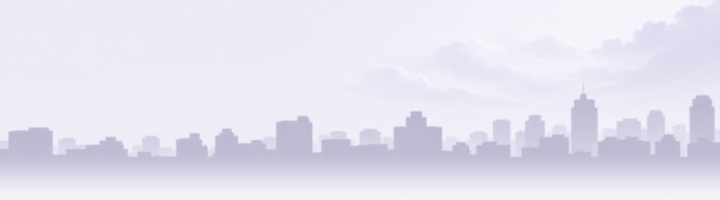
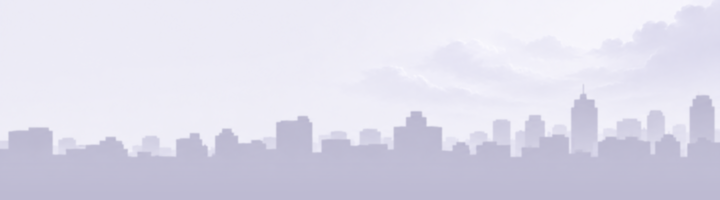
Make the light panel the colour of its buildings
The light panel and arrow are now #BDBAD2, the darkest buildings of the
light skyline, recomposited to match. Section titles, counts and the footer
on the panel turn indigo there; cards keep a white fill.

Changed region(s): [[0.0, 0.84, 1.0, 1.0]]

diff --git a/macos/Sources/LullApp/Menu/Theme.swift b/macos/Sources/LullApp/Menu/Theme.swift
@@ -19,7 +19,7 @@ struct Card<Content: View>: View {
         VStack(alignment: .leading, spacing: 0) { content }
             .background(
                 RoundedRectangle(cornerRadius: Theme.corner, style: .continuous)
-                    .fill(Color.white.opacity(scheme == .dark ? 0.075 : 0.7))
+                    .fill(Color.white.opacity(scheme == .dark ? 0.075 : 0.6))
             )
             .overlay(
                 RoundedRectangle(cornerRadius: Theme.corner, style: .continuous)
@@ -28,7 +28,16 @@ struct Card<Content: View>: View {
     }
 }
 
+/// Muted text that sits on the panel itself rather than on a card: the system secondary on
+/// dark, indigo on the light lavender panel, where neutral grey reads too faint.
+enum PanelText {
+    static func muted(_ scheme: ColorScheme) -> AnyShapeStyle {
+        scheme == .dark ? AnyShapeStyle(.secondary) : AnyShapeStyle(Brand.indigo.opacity(0.75))
+    }
+}
+
 struct SectionTitle: View {
+    @Environment(\.colorScheme) private var scheme
     var text: String
     var trailing: String?
 
@@ -40,7 +49,7 @@ struct SectionTitle: View {
         }
         .font(.system(size: 11, weight: .semibold))
         .tracking(0.6)
-        .foregroundStyle(.secondary)
+        .foregroundStyle(PanelText.muted(scheme))
         .padding(.horizontal, 4)
     }
 }

diff --git a/macos/Sources/LullApp/Brand.swift b/macos/Sources/LullApp/Brand.swift
@@ -7,12 +7,12 @@ enum Brand {
     static let lavender = Color(red: 0xEE / 255, green: 0xED / 255, blue: 0xF6 / 255)
     static let indigo = Color(red: 0x27 / 255, green: 0x27 / 255, blue: 0x44 / 255)
 
-    /// The panel's solid background: the darkest buildings of the dark skyline (`#20203A`)
-    /// and the light skyline's ground (`#F2F2F7`), so the header melts into the panel.
+    /// The panel's solid background: the darkest buildings of each skyline, `#20203A` dark
+    /// and `#BDBAD2` light, so the header melts into the panel.
     static let panel = NSColor(name: "lull.panel") { appearance in
         appearance.bestMatch(from: [.darkAqua, .aqua]) == .darkAqua
             ? NSColor(srgbRed: 0x20 / 255, green: 0x20 / 255, blue: 0x3A / 255, alpha: 1)
-            : NSColor(srgbRed: 0xF2 / 255, green: 0xF2 / 255, blue: 0xF7 / 255, alpha: 1)
+            : NSColor(srgbRed: 0xBD / 255, green: 0xBA / 255, blue: 0xD2 / 255, alpha: 1)
     }
 
     /// The cat redrawn for 20 px, as a template image for the menu bar.

diff --git a/macos/Sources/LullApp/Menu/MenuView.swift b/macos/Sources/LullApp/Menu/MenuView.swift
@@ -219,6 +219,7 @@ private struct Banner: View {
 }
 
 private struct FooterButton: View {
+    @Environment(\.colorScheme) private var scheme
     var symbol: String
     var title: String
     var action: () -> Void
@@ -230,7 +231,7 @@ private struct FooterButton: View {
                 .font(.system(size: 12, weight: .medium))
                 .padding(.horizontal, 8)
                 .padding(.vertical, 4)
-                .foregroundStyle(hovering ? .primary : .secondary)
+                .foregroundStyle(hovering ? AnyShapeStyle(.primary) : PanelText.muted(scheme))
                 .background(RoundedRectangle(cornerRadius: 6).fill(Color.primary.opacity(hovering ? 0.08 : 0)))
         }
         .buttonStyle(.plain)

diff --git a/assets/brand/README.md b/assets/brand/README.md
@@ -18,7 +18,7 @@ iconutil -c icns AppIcon.iconset -o app-icon.icns
 | `wordmark.svg` / `.pdf` | "lull" alone. |
 | `app-icon.svg` / `.pdf`, `app-icon.icns` | The cat on an indigo rounded tile; the app's bundle icon. |
 | `lull-micro-{16,20,24}.svg` / `.pdf`, `-currentColor.svg` | The cat redrawn for 16, 20 and 24 px. The menu bar uses `lull-micro-20` as a template image. |
-| `header/header-{dark,light}@{2x,4x}.png` | The night-sky skyline behind the panel header: a 360 × 100 pt band without the logo, opaque over the panel colour (`#20203A` dark, `#F2F2F7` light) so it fades into the panel. Raster masters, copied into the app as they are. |
+| `header/header-{dark,light}@{2x,4x}.png` | The night-sky skyline behind the panel header: a 360 × 100 pt band without the logo, opaque over the panel colour (`#20203A` dark, `#BDBAD2` light, each the colour of its darkest buildings) so it fades into the panel. Raster masters, copied into the app as they are. |
 | `reference/brand-sheet.png` | The approved sheet: logo on light and dark, app icon and menu-bar use. Reference only, not shipped. |
 
 All artwork is single-colour with the details cut out (`fill-rule="evenodd"`), so it can be
